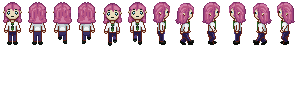
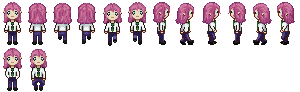
Maestro delivered new assets

diff --git a/scenes/apartment/src/layout.rs b/scenes/apartment/src/layout.rs
@@ -346,7 +346,7 @@ fn spawn(
             atlas: TextureAtlas {
                 index: 0,
                 layout: texture_atlases.add(TextureAtlasLayout::from_grid(
-                    vec2(51.0, 50.0),
+                    vec2(51.0, 57.0),
                     8,
                     1,
                     Some(vec2(4.0, 0.0)),
@@ -358,7 +358,7 @@ fn spawn(
                 ..default()
             },
             transform: Transform::from_translation(
-                vec2(-201.5, -53.0).extend(zindex::ELEVATOR),
+                vec2(-201.5, -49.0).extend(zindex::ELEVATOR),
             ),
             ..default()
         },
